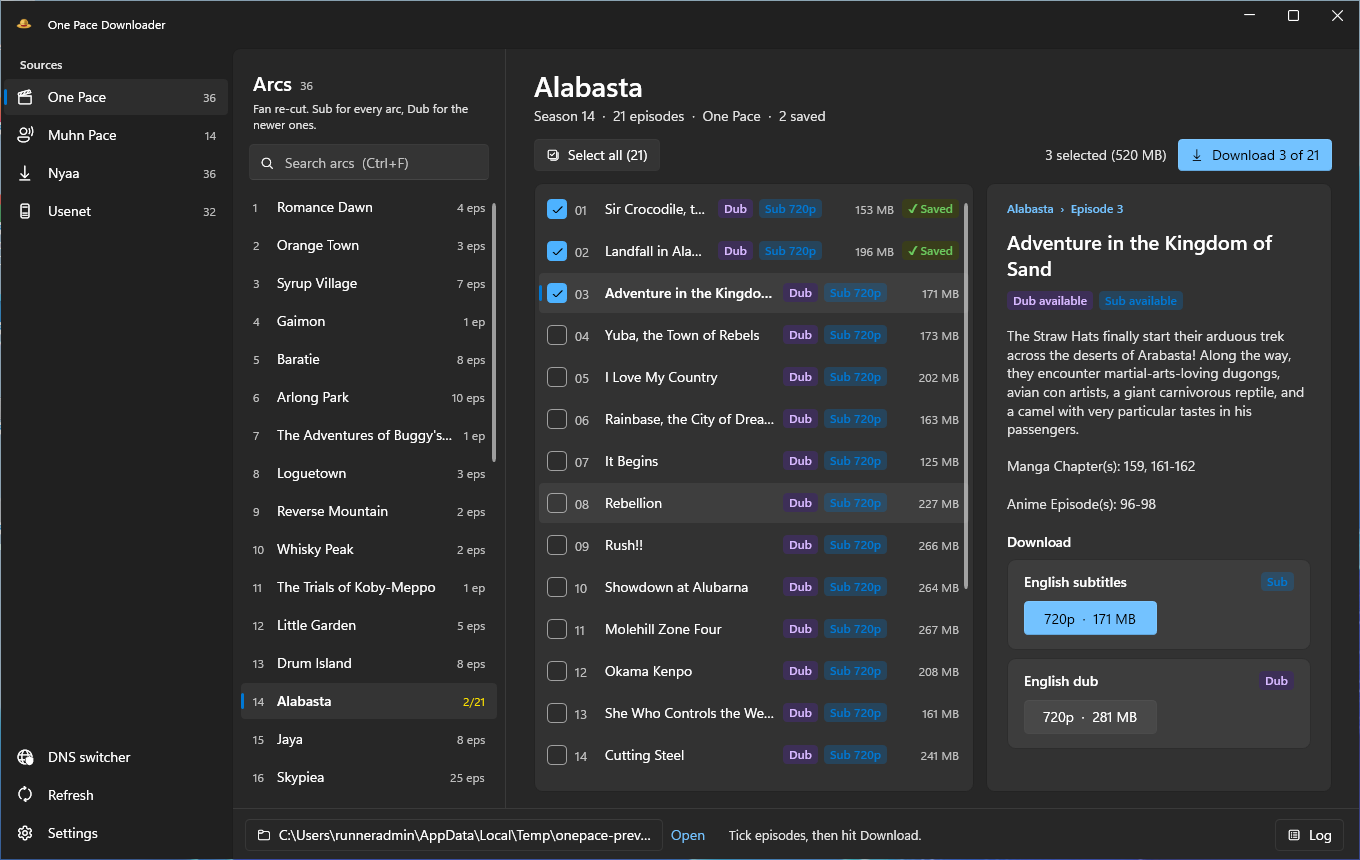
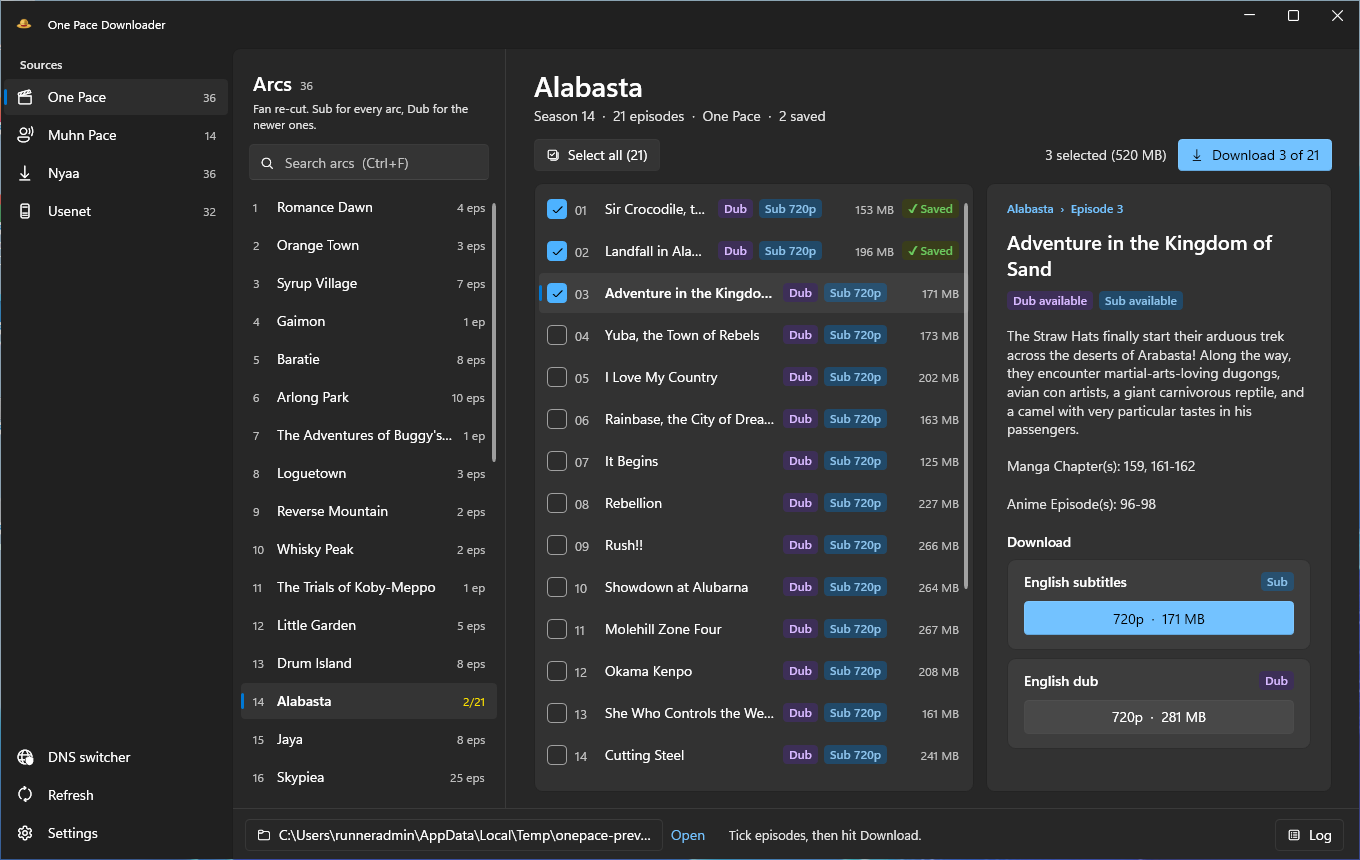
Update README checksum for 3.0.0

diff --git a/README.md b/README.md
@@ -206,9 +206,9 @@ Fair question. Verify yourself.
 
 <div align="center">
 
[2 lines of base64/hex data omitted]
 
-[![VirusTotal](https://img.shields.io/badge/VirusTotal-Scan_Report-394EFF?style=for-the-badge&logo=virustotal&logoColor=white)](https://www.virustotal.com/gui/file/41d31ffbf567ce27a75261da326253dc5ea77dec080b2703ded7a7d4e4cf6c59)
+[![VirusTotal](https://img.shields.io/badge/VirusTotal-Scan_Report-394EFF?style=for-the-badge&logo=virustotal&logoColor=white)](https://www.virustotal.com/gui/file/7f32775fbecc7e21e2a1c2d281368876f4d07928b7a5889f451577facf05e4a7)
 
 </div>
 
